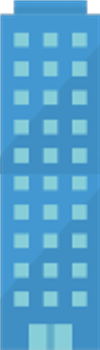
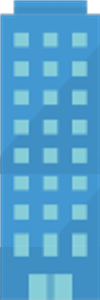
Added present code

diff --git a/main.py b/main.py
@@ -8,7 +8,7 @@ import random
 
 #T_ODO: Change player jump
 #T_ODO: Add score and lifes text
-#TODO: Add hitboxes to obstacles
+#T_ODO: Add hitboxes to obstacles
 #TODO: Make presents' code
 #TODO: Add background music
 #TODO: Add hop sound effect on movement
@@ -36,12 +36,6 @@ def isDeadFromCollision():
             if user.rect.colliderect(helicopter.rect):
                 sentinel = True
     
-    if len(obstacles_in_scene[1]) > 0:
-        for present in obstacles_in_scene[1]:
-            #screen.blit(present, (present.x, present.y))
-            #sentinel = True
-            pass
-    
     if len(obstacles_in_scene[2]) > 0:
         for building in obstacles_in_scene[2]:
             #print("Building: ", building.rect.x, building.rect.y, " | User: ", user.rect.x, user.rect.y)
@@ -58,6 +52,16 @@ def isDeadFromCollision():
         return sentinel
 
 
+def hasObtainedPoints():
+    if len(obstacles_in_scene[1]) > 0:
+        for present in obstacles_in_scene[1]:
+            if user.rect.colliderect(present.rect):
+                user.score += 1
+                present.showImage = False
+    
+    return True
+
+
 def isDeadFromFloorBang():
     if user.y >= screen_height-user.height:
         return True
@@ -66,6 +70,7 @@ def isDeadFromFloorBang():
 
 
 def islifeLost():
+    global lifeLost_value
     isDeadFromFloorBang_value = isDeadFromFloorBang()
     isDeadFromCollision_value = isDeadFromCollision()
     
@@ -73,6 +78,7 @@ def islifeLost():
         if user.lifes > 0:
             user.respawnAnimation
             user.lifes -= 1
+            lifeLost_value = True
             #TO REMOVE AFTER ANIMATION COMPLETED
             time.sleep(1)
             user.x, user.y = user.initial_x, user.initial_y
@@ -82,6 +88,7 @@ def islifeLost():
 
     elif isDeadFromCollision_value:
         user.lifes -= 1
+        lifeLost_value = True
         user.blinkAnimation
         print("isDeadFromCollision")
 
@@ -91,7 +98,7 @@ def islifeLost():
 def create_obstacles():
     helicopter_height = str(random.randint(0,3))
     building_height = str(random.randint(0,3))
-    #showPresent = True if random.randint(0,5) == 3 else False
+    showPresent = True if random.randint(0,10) == 3 else False
 
     if helicopter_height == "3" and building_height == "3":
         if random.randint(0,1) == 0:
@@ -105,6 +112,8 @@ def create_obstacles():
     elif helicopter_height == "2" and building_height == "3":
         helicopter_height = "1"
 
+    present_y_position = (heightConverter[helicopter_height] + (screen_height - heightConverter[building_height])) / 2 - 100
+
     #sentinel_helicopter=obstacles_in_scene[0]
     #sentinel_present=obstacles_in_scene[1] if showPresent
     #sentinel_building=obstacles_in_scene[2]
@@ -115,6 +124,8 @@ def create_obstacles():
 
     obstacles_in_scene[0].append(Helicopter(helicopter_height, pygame.Rect(screen_width, 0, 100, heightConverter[helicopter_height])))
     obstacles_in_scene[2].append(Building(building_height, pygame.Rect(screen_width, screen_height - heightConverter[building_height], 100, heightConverter[building_height])))
+    #if showPresent:
+    obstacles_in_scene[1].append(Present(present_y_position, pygame.Rect(screen_width, present_y_position,  100, 100)))
 
 
 def move():
@@ -163,8 +174,8 @@ def move_scene():
     
     if len(obstacles_in_scene[1]) > 0:
         for present in obstacles_in_scene[1]:
-            #screen.blit(present, (present.x, present.y))
-            pass
+            present.rect.x -= obstacle_speed
+            present.x -= obstacle_speed
     
     if len(obstacles_in_scene[2]) > 0:
         for building in obstacles_in_scene[2]:
@@ -173,10 +184,15 @@ def move_scene():
 
 
 def load_window():
+    global lifeLost_value
     screen.blit(background_image, (0,0))
     screen.blit(user_character, (user.x, user.y))
     screen.blit(lifes_font, (screen_width - 200, 20))
     screen.blit(score_font, (screen_width - 200, 90))
+    if lifeLost_value:
+        screen.blit(pygame.image.load("assets/images/end_screen.png"), (0,0))
+        lifeLost_value = False
+    #screen.blit(pygame.image.load("assets/images/end_screen.png"), (0,0))
     
     if len(obstacles_in_scene[0]) > 0:
         for helicopter in obstacles_in_scene[0]:
@@ -184,8 +200,8 @@ def load_window():
     
     if len(obstacles_in_scene[1]) > 0:
         for present in obstacles_in_scene[1]:
-            #screen.blit(present, (present.x, present.y))
-            pass
+            if present.showImage:
+                screen.blit(present.present_obstacle, (present.x, present.y))
     
     if len(obstacles_in_scene[2]) > 0:
         for building in obstacles_in_scene[2]:
@@ -195,6 +211,8 @@ def load_window():
 
 
 def showEndScreen():
+    lifes_font = font.render('Lifes: 0', True, (255,255,255))
+    screen.blit(lifes_font, (screen_width - 200, 20))
     screen.blit(pygame.image.load("assets/images/end_screen.png"), (0,0))
     screen.blit(game_over_font, (screen_width/2-400,screen_height/2-100))
     
@@ -223,6 +241,7 @@ def game():
         move_scene()
         islifelost_var = islifeLost()
         load_window()
+        hasObtainedPoints()
         
         if islifelost_var and user.lifes != 0:
             time.sleep(1)

diff --git a/obstacles.py b/obstacles.py
@@ -46,7 +46,7 @@ class Building():
             self.height = 200
             self.image =  "assets/images/building_three.png"
         elif height == "3":
-            self.height = 350
+            self.height = 300
             self.image =  "assets/images/building_four.png"
 
         self.x = screen_width
@@ -59,13 +59,16 @@ class Building():
 
 
 class Present():
-    def __init__(self):
-        self.__present_sound = pygame.mixer.Sound("assets/music/get_present_sound_effect.mp3")
+    def __init__(self, y_pos, rect):
+        #self.__present_sound = pygame.mixer.Sound("assets/music/get_present_sound_effect.mp3")
         self.image =  "assets/images/present.png"
+        self.rect = rect
         self.width = 100
         self.height = 100
         self.x = screen_width
-        self.y = screen_height - self.height/2
+        self.y = y_pos
+        self.present_obstacle = pygame.image.load(self.image)
+        self.showImage = True
     
-    def play_sound(self):
-        pygame.mixer.Sound.play(self.__present_sound)
+    #def play_sound(self):
+       # pygame.mixer.Sound.play(self.__present_sound)

diff --git a/global_variables.py b/global_variables.py
@@ -18,9 +18,11 @@ obstacle_frame_separation = current_obstacle_frame_separation = 300
 #Will contain three lists: helicopters, presents, buildings
 obstacles_in_scene = [[], [], []]
 
+lifeLost_value = False
+
 heightConverter = {
     "0": 100,
     "1": 150,
     "2": 200,
-    "3": 350
+    "3": 300
 }
